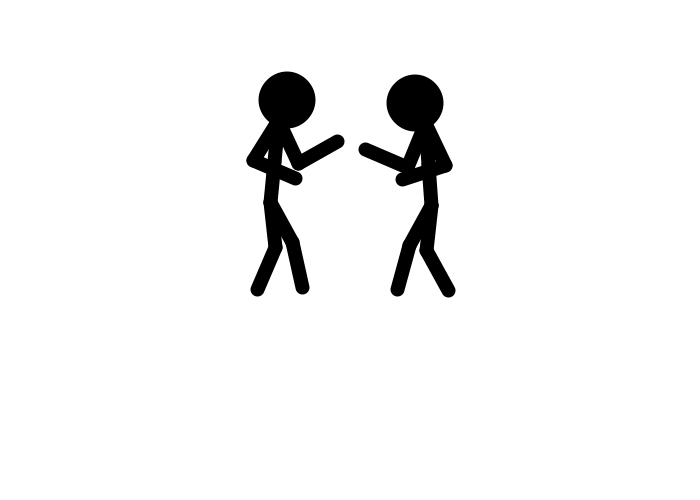
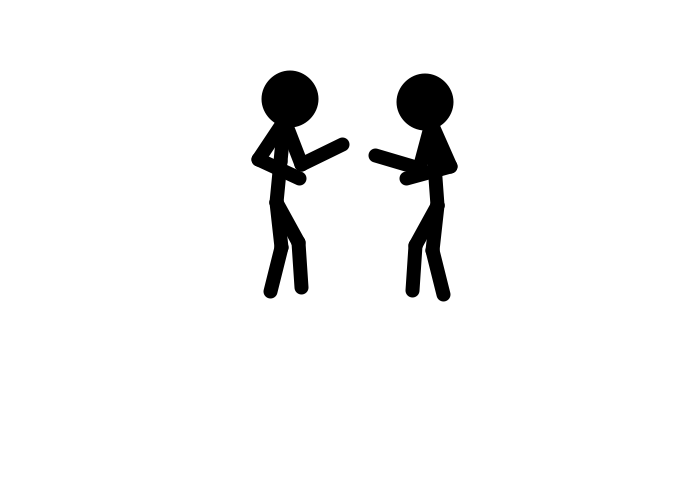
Added in difficulty levels and new idle animation.

diff --git a/Controller.cpp b/Controller.cpp
@@ -214,7 +214,7 @@ void Controller::update() {
                         targetSets[i].removeTarget(j);
                         hit = true;
 
-						if (result >= HIT_BOUND) {
+						if (result >= HIT_BOUND + ((difficultyLevel - 1) * (100 - HIT_BOUND))) {
                             goals[col].goalHit(true);
                         } else {
                             goals[col].goalHit(false);
@@ -239,16 +239,15 @@ void Controller::update() {
                 float accuracy = targetSets[i].getAccuracy();
 
                 currentAnimation = rand() % basicActions.size();
-                
-                // TODO: Still want these to be modified by the current level.
-                if (accuracy < BLOCK_BOUND) {
+                                
+                if (accuracy < BLOCK_BOUND + ((difficultyLevel - 1) * (100 - BLOCK_BOUND))) {
                     currentAnimationType = ANIMATION_COUNTER;
-                } else if (accuracy < HIT_BOUND) {
+                } else if (accuracy < HIT_BOUND + ((difficultyLevel - 1) * (100 - HIT_BOUND))) {
                     currentAnimationType = ANIMATION_BLOCK;
                 } else {
                     currentAnimationType = ANIMATION_HIT;
 
-					if (accuracy > CRITICAL_BOUND) {
+					if (accuracy > CRITICAL_BOUND + ((difficultyLevel - 1) * (100 - CRITICAL_BOUND))) {
 						criticalFrame = NUM_CRITICAL_FRAMES;
                         criticalAttack = true;
 					}
@@ -530,7 +529,6 @@ void Controller::processEvents() {
                             }
                         } else if (menuState == STATE_NEW_GAME) {
                             // Start the game
-                            resetMenuSelector();
                             menuState = STATE_MAIN_MENU;
                             
                             dojo.SetImage(dojoImgInit);		
@@ -542,17 +540,21 @@ void Controller::processEvents() {
                             switch (menuSelectorPosition) {
                                 case 0:
                                     // Easy
+                                    difficultyLevel = 1.0;
                                     resetState(1);
                                     break;
                                 case 1:
                                     // Medium
+                                    difficultyLevel = DIFFICULTY_MEDIUM;
                                     resetState(1);
                                     break;
                                 case 2:
                                     // Hard
+                                    difficultyLevel = DIFFICULTY_HARD;
                                     resetState(1);
                                     break;
                             }
+                            resetMenuSelector();
                         } else {
                             // Back to Main Menu
                             resetMenuSelector();
@@ -741,7 +743,7 @@ void Controller::addRandomSet() {
     if(numTargets > MAX_NUM_TARGETS) {
         numTargets = MAX_NUM_TARGETS;
     }
-    int speed = SPEED_START + (level * SPEED_INCREASE);
+    int speed = SPEED_START + ((difficultyLevel - 1) * 200) + (level * SPEED_INCREASE);
 
 	targetSets.push_back(TargetSet());
     int y = 0;

diff --git a/Constants.h b/Constants.h
@@ -26,6 +26,9 @@ const int CRITICAL_BOUND = 90;
 const int NUM_MENU_ITEMS = 2;
 const int NUM_DIFFICULTY_LEVELS = 3;
 
+const float DIFFICULTY_MEDIUM = 1.2;
+const float DIFFICULTY_HARD = 1.4;
+
 // Special move constants
 const int SPECIAL_PERCENTAGE = 10;
 
@@ -48,7 +51,7 @@ const int NUM_PASSES = 3;
 const int BASIC_ENEMY_HEALTH = 100;
 const int PLAYER_HEALTH = 70;
 
-const int NUM_IDLE_FRAMES = 5;
+const int NUM_IDLE_FRAMES = 13;
 const int NUM_CRITICAL_FRAMES = 100;
 
 const int NUM_KICK_HIT_FRAMES = 35;

diff --git a/Controller.h b/Controller.h
@@ -84,6 +84,7 @@ private:
     std::vector<Goal> goals;
     
     int level;
+    float difficultyLevel;
     int dojoLevel;
 	int lives;
     int points;
